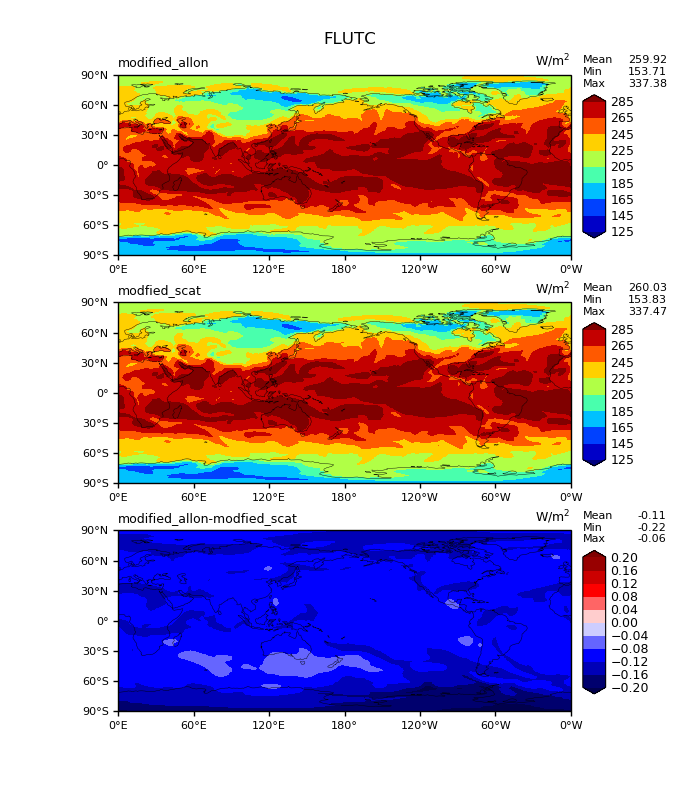
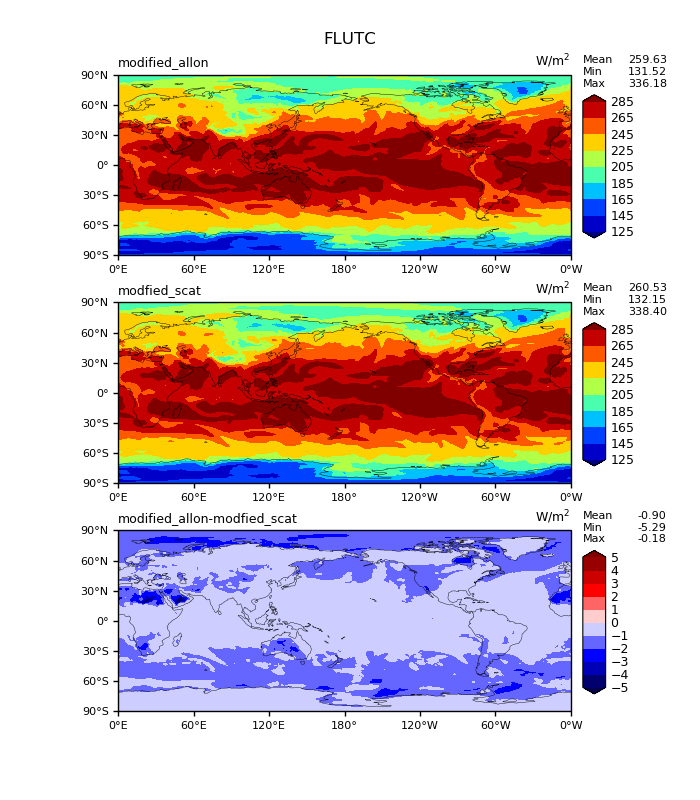
plot flutc

diff --git a/d1_lon_lat_contour_model_vs_model_sgl.py b/d1_lon_lat_contour_model_vs_model_sgl.py
@@ -48,11 +48,11 @@ lon=file_ctl.variables["lon"]
 lev=file_ctl.variables["lev"]
 
 #varnm="FSSDCLRS14"
-varnm="FLDS"
+varnm="FLUTC"
 #varnm_off="LWCF_OFF"  #offline computation
 units=r"W/m$^2$"
 #units=""
-figure_name="lat_lon_"+"FLUS"+"_RRTMG_"+exp_name+"-"+ctl_name+".png"
+figure_name="lat_lon_"+varnm+"_RRTMG_"+exp_name+"-"+ctl_name+".png"
 #figure_name="lat_lon_"+varnm+"500mb_"+exp_name+"-"+ctl_name+".png"
 
 #lev250=np.min(np.where(lev[:]>250.))
@@ -61,10 +61,10 @@ lev500=np.min(np.where(lev[:]>500.))
 # read data and calculate mean/min/max
 #dtctl=file_ctl.variables[varnm][:,lev500,:,:] #*scale_ctl
 #dtexp=file_exp.variables[varnm][:,lev500,:,:] #*scale_exp
-#dtctl=file_ctl.variables[varnm][:,:,:] #*scale_ctl
-#dtexp=file_exp.variables[varnm][:,:,:] #*scale_exp
-dtctl=file_ctl.variables["FLNS"][:,:,:]+file_ctl.variables[varnm][:,:,:] #*scale_ctl
-dtexp=file_exp.variables["FLNS"][:,:,:]+file_exp.variables[varnm][:,:,:] #*scale_exp
+dtctl=file_ctl.variables[varnm][:,:,:] #*scale_ctl
+dtexp=file_exp.variables[varnm][:,:,:] #*scale_exp
+#dtctl=file_ctl.variables["FLNS"][:,:,:]+file_ctl.variables[varnm][:,:,:] #*scale_ctl
+#dtexp=file_exp.variables["FLNS"][:,:,:]+file_exp.variables[varnm][:,:,:] #*scale_exp
 dtdif=dtexp[:,:,:]-dtctl[:,:,:]
 stats_ctl=get_area_mean_min_max(dtctl[:,:,:],lat[:])
 stats_exp=get_area_mean_min_max(dtexp[:,:,:],lat[:])
@@ -119,7 +119,7 @@ for i in range(0,3):
         #cnlevels=np.arange(-9,10,1.5)
         #cnlevels=np.arange(-7,8,1)
         #cnlevels=np.arange(-0.8,1.0,0.2)
-        cnlevels=np.arange(-0.2,0.24,0.04)
+        cnlevels=np.arange(-5,6,1)
         #cnlevels=np.array([-4,-3.5,-3,-2.5,-2,-1.5,-1.,-0.5,0.5,1.,1.5,2.,2.5,3.,3.5,4.]) #parameters["diff_levs"]
 
     #if len(cnlevels) >0:
